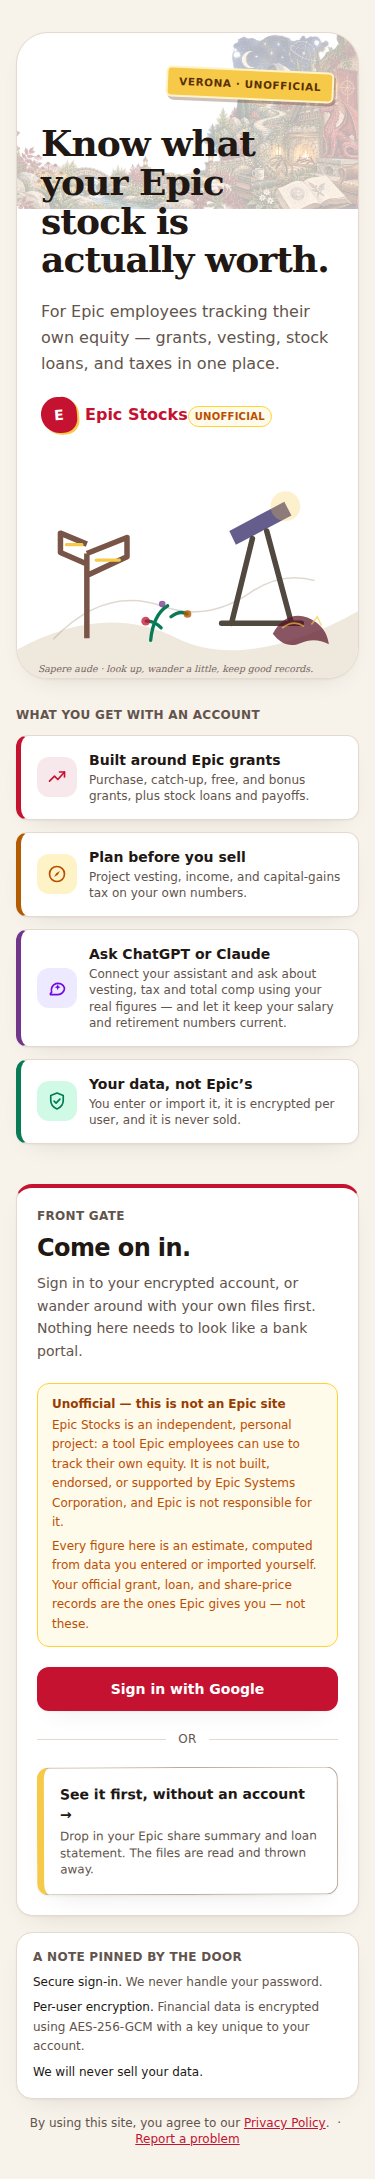
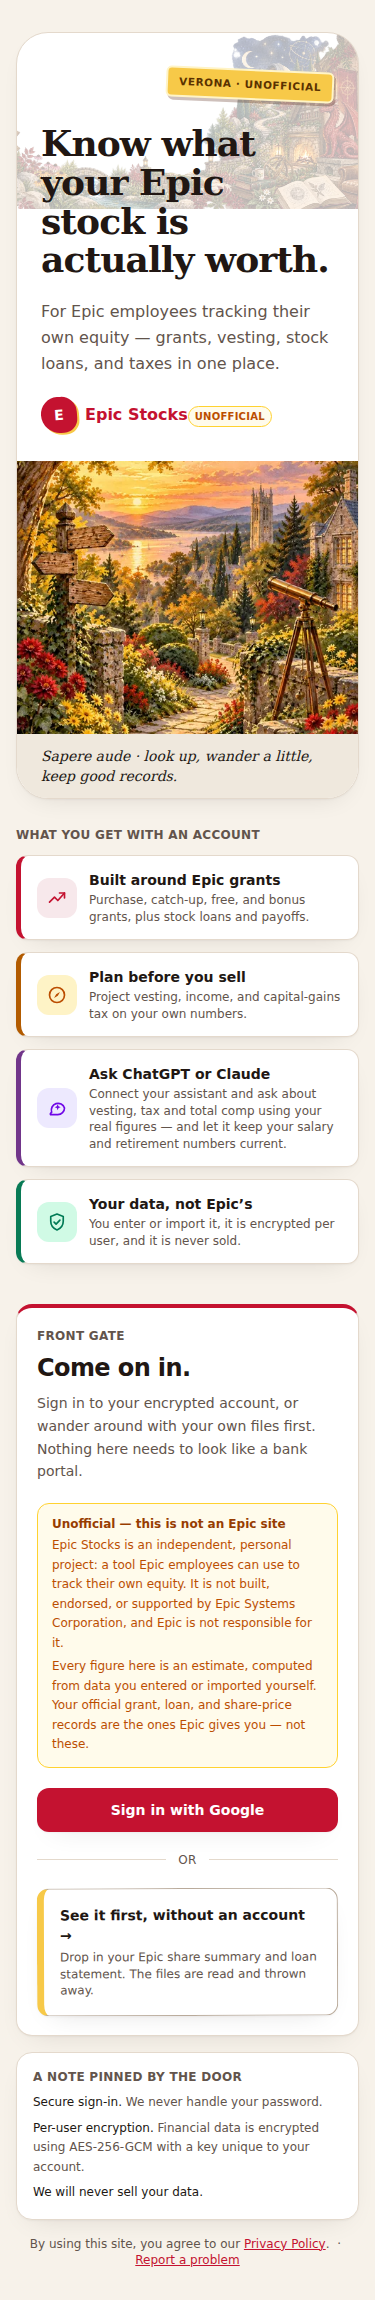
Replace login artwork with responsive watercolor garden (#550)
Includes mobile and desktop screenshots.

diff --git a/frontend/src/scaffold/components/CampusMotifs.tsx b/frontend/src/scaffold/components/CampusMotifs.tsx
@@ -20,7 +20,3 @@ export function CampusCorner({ variant = 'garden', className = '' }: MotifProps 
   if (variant === 'workshop') return <svg viewBox="0 0 220 150" className={className} aria-hidden="true"><path d="M38 126h140M60 126V66h96v60M78 66V44h60v22" stroke="currentColor" strokeOpacity=".18" strokeWidth="4" strokeLinejoin="round"/><path d="m163 44 17-14 8 9-17 14m-11-6 15 15" stroke="currentColor" strokeOpacity=".22" strokeWidth="3" strokeLinecap="round" strokeLinejoin="round"/></svg>
   return <svg viewBox="0 0 220 150" className={className} aria-hidden="true"><path d="M31 130c18-31 37-43 57-38 18 5 33 2 47-11 16-14 35-18 57-10" fill="none" stroke="currentColor" strokeOpacity=".13" strokeWidth="2"/><path d="M75 130V57m0 9-25-13v-18l25 13m0 27 35-16V42L75 57" fill="none" stroke="currentColor" strokeOpacity=".22" strokeWidth="4" strokeLinejoin="round"/><path d="M153 129c-2-24 2-43 13-59m-12 38c-10-7-17-8-23-4m28-12c8-6 15-7 22-2" fill="none" stroke="currentColor" strokeOpacity=".18" strokeWidth="2.5" strokeLinecap="round"/></svg>
 }
-
-export function CampusWelcomeScene({ className = '' }: MotifProps) {
-  return <svg viewBox="0 0 620 430" className={className} aria-hidden="true"><path d="M0 365c106-58 203-65 291-21 77 38 188 29 329-49v135H0Z" fill="var(--cs-raised)"/><path d="M66 346c62-65 129-85 199-60 53 19 106 11 158-24 39-27 78-34 118-23" fill="none" stroke="var(--cs-border-strong)" strokeOpacity=".45" strokeWidth="3"/><g transform="translate(72 136)"><path d="M55 208V54m0 19L7 52V17l48 20m0 57 73-34V25L55 54" fill="none" stroke="#795548" strokeWidth="10" strokeLinejoin="round"/><path d="M18 38h28m26 28h42" stroke="#F7C948" strokeWidth="6" strokeLinecap="round"/></g><g transform="translate(330 55)"><path d="m56 94 100-53 13 25-101 53z" fill="#4A4278" opacity=".85"/><path d="M98 108 60 262m64-168 45 168M42 262h145" stroke="#51483f" strokeWidth="10" strokeLinecap="round"/><circle cx="158" cy="49" r="27" fill="#F7C948" opacity=".28"/></g><g transform="translate(220 257)"><path d="M23 91c3-31 13-52 31-63m-12 40c-9-9-18-13-27-12m45-8c10-8 20-10 29-5" fill="none" stroke="#087A55" strokeWidth="6" strokeLinecap="round"/><circle cx="14" cy="56" r="8" fill="#C41230" opacity=".75"/><circle cx="90" cy="43" r="7" fill="#B25B00" opacity=".8"/><circle cx="44" cy="25" r="6" fill="#71358A" opacity=".75"/></g><g transform="translate(465 278)"><path d="M0 58c18-35 51-43 80-20 13 10 20 23 22 39-17-9-34-10-52-2-18 8-35 2-50-17Z" fill="#5C1327" opacity=".72"/><path d="M18 47c13-10 26-11 38-3M71 40l10-13 7 15" fill="none" stroke="#F7C948" strokeOpacity=".65" strokeWidth="3" strokeLinecap="round"/></g><text x="38" y="405" fill="var(--cs-muted)" fontFamily="Georgia, serif" fontSize="17" fontStyle="italic">Sapere aude · look up, wander a little, keep good records.</text></svg>
-}

diff --git a/frontend/src/scaffold/pages/Login.tsx b/frontend/src/scaffold/pages/Login.tsx
@@ -10,9 +10,12 @@ import DisclaimerNotice from '../components/DisclaimerNotice.tsx'
 import UnofficialBadge from '../components/UnofficialBadge.tsx'
 import { IconTile, Card, Eyebrow } from '../components/ui/Card.tsx'
 import { IconTrendUp, IconCompass, IconShield, IconChatSpark } from '../components/ui/icons.tsx'
-import { CampusWelcomeScene } from '../components/CampusMotifs.tsx'
 import { useConfig } from '../hooks/useConfig.ts'
 import campusWatercolor from '../../assets/campus-watercolor.webp'
+import gardenMobile480 from '../../assets/campus-garden-mobile-480.webp'
+import gardenMobile960 from '../../assets/campus-garden-mobile-960.webp'
+import gardenWide800 from '../../assets/campus-garden-wide-800.webp'
+import gardenWide1600 from '../../assets/campus-garden-wide-1600.webp'
 
 const FEATURES = [
   { icon: <IconTrendUp />, tone: 'brand' as const, title: 'Built around Epic grants', body: 'Purchase, catch-up, free, and bonus grants, plus stock loans and payoffs.' },
@@ -56,7 +59,13 @@ export default function Login() {
               <p className="mt-5 max-w-xl text-base leading-relaxed text-cs-text-2 sm:text-lg">{appTagline}</p>
               <div className="mt-5 flex items-center gap-2"><span className="campus-wordmark flex h-9 w-9 items-center justify-center bg-cs-brand text-sm font-extrabold text-white">E</span><span><span className="font-extrabold text-cs-brand">{appName}</span><UnofficialBadge className="mt-0.5" /></span></div>
             </div>
-            <CampusWelcomeScene className="relative z-0 -mb-2 mt-2 w-full text-cs-text" />
+            <figure className="relative z-0 mt-5">
+              <picture>
+                <source media="(min-width: 640px)" srcSet={`${gardenWide800} 800w, ${gardenWide1600} 1600w`} sizes="(min-width: 1024px) 55vw, 100vw" />
+                <img src={gardenMobile480} srcSet={`${gardenMobile480} 480w, ${gardenMobile960} 960w`} sizes="100vw" alt="A garden path leads past a wooden signpost and brass telescope toward a lakeside campus." width="1122" height="1402" className="block aspect-[5/4] w-full object-cover object-center sm:aspect-[3/2]" />
+              </picture>
+              <figcaption className="bg-cs-raised px-6 py-3 font-serif text-sm italic text-cs-text sm:px-10 sm:text-base">Sapere aude · look up, wander a little, keep good records.</figcaption>
+            </figure>
           </div>
 
           <Eyebrow className="mt-7">What you get with an account</Eyebrow>

diff --git a/frontend/src/__tests__/Login.test.tsx b/frontend/src/__tests__/Login.test.tsx
@@ -52,6 +52,14 @@ describe('Login page', () => {
     expect(screen.getByText('Epic Stocks')).toBeInTheDocument()
   })
 
+  it('offers a separate responsive garden image and readable caption', () => {
+    const { container } = renderLogin()
+    const picture = container.querySelector('figure picture')
+    expect(picture?.querySelector('source[media="(min-width: 640px)"]')).toHaveAttribute('srcset', expect.stringContaining('campus-garden-wide'))
+    expect(screen.getByRole('img', { name: /garden path leads past a wooden signpost and brass telescope/i })).toHaveAttribute('srcset', expect.stringContaining('campus-garden-mobile'))
+    expect(screen.getByText(/Sapere aude · look up, wander a little/i)).toBeInTheDocument()
+  })
+
   it('says who the app is for', () => {
     renderLogin()
     expect(screen.getByText(/for Epic employees tracking their own equity/i)).toBeInTheDocument()

diff --git a/frontend/e2e/screenshots.spec.ts b/frontend/e2e/screenshots.spec.ts
@@ -199,6 +199,14 @@ test.describe('Screenshots', () => {
     await shoot(page, 'login-dark-mobile', { fullPage: true })
   })
 
+  test('login page - light - desktop', async ({ page }) => {
+    await page.emulateMedia({ colorScheme: 'light' })
+    await page.setViewportSize(DESKTOP)
+    await page.goto(`${BASE}/login`)
+    await page.waitForLoadState('networkidle')
+    await shoot(page, 'login-light-desktop', { fullPage: true })
+  })
+
   // The report dialog, from the pre-login side — the case that matters most,
   // because it is the one a person reaches when they cannot get in at all.
   test('report dialog - light - mobile', async ({ page }) => {

diff --git a/README.md b/README.md
@@ -119,6 +119,8 @@ The preview then says what an account adds that a one-off read cannot: notificat
    |-------|------|
    | ![Login](screenshots/login-light-mobile.png) | ![Login Dark](screenshots/login-dark-mobile.png) |
 
+   The welcome garden has separate phone and desktop compositions, each with resolution-aware WebP sizes. [Desktop preview](screenshots/login-light-desktop.png).
+
 2. **Enter your data** — with no grants yet, the setup screen appears automatically on the dashboard, and is always reachable from the Import page. Options, fastest first:
    - **Import from Shareworks** (fastest) — download **Data for Stock Workbook** and your latest **Stock Loan Statement** from the **Documents** tab in Shareworks and upload them as-is. Share counts, cost basis, loan balances, interest rates and due dates are read straight out of them, and you check the result in the wizard before anything is saved. See [Importing from Shareworks](#importing-from-shareworks) below.
    - **Enter it myself** — no documents to hand? Epic's company-wide grant structure is pre-filled (vest dates, periods, exercise dates), so you fill in your share counts, annual market prices and loan details grant by grant. Catch-up grants are included by default for years ≤ 2021. The 2020 Bonus has an A/B/C vesting schedule selector matching your grant agreement. Developer Bonus Shares appear for the 2020 and 2021 cohorts with their cost basis fixed at $0 — leave the share count blank if you weren't offered them. If you already have data, the wizard pre-loads it on each screen — unmatched existing records appear at the bottom so you can keep or remove them. Nothing is written until you confirm at the final step.
